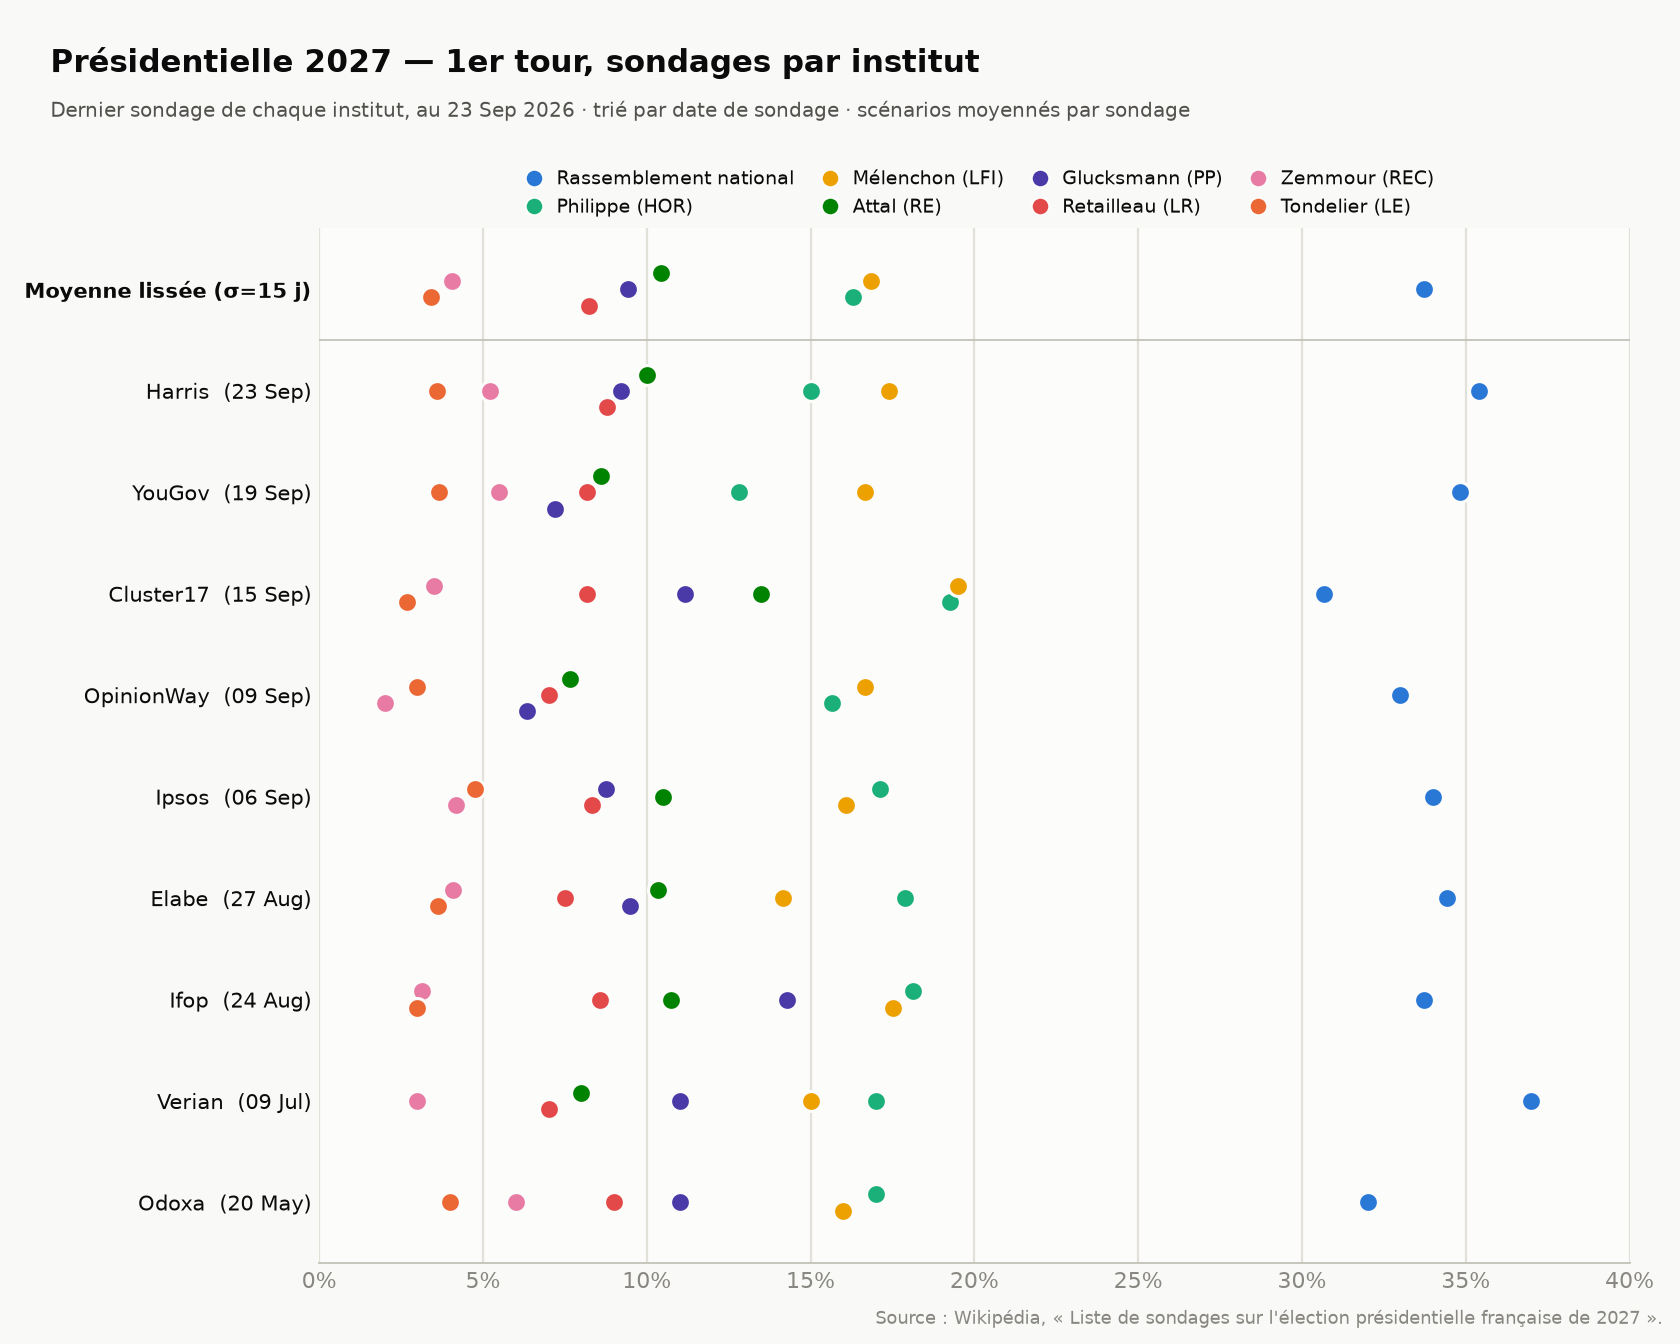
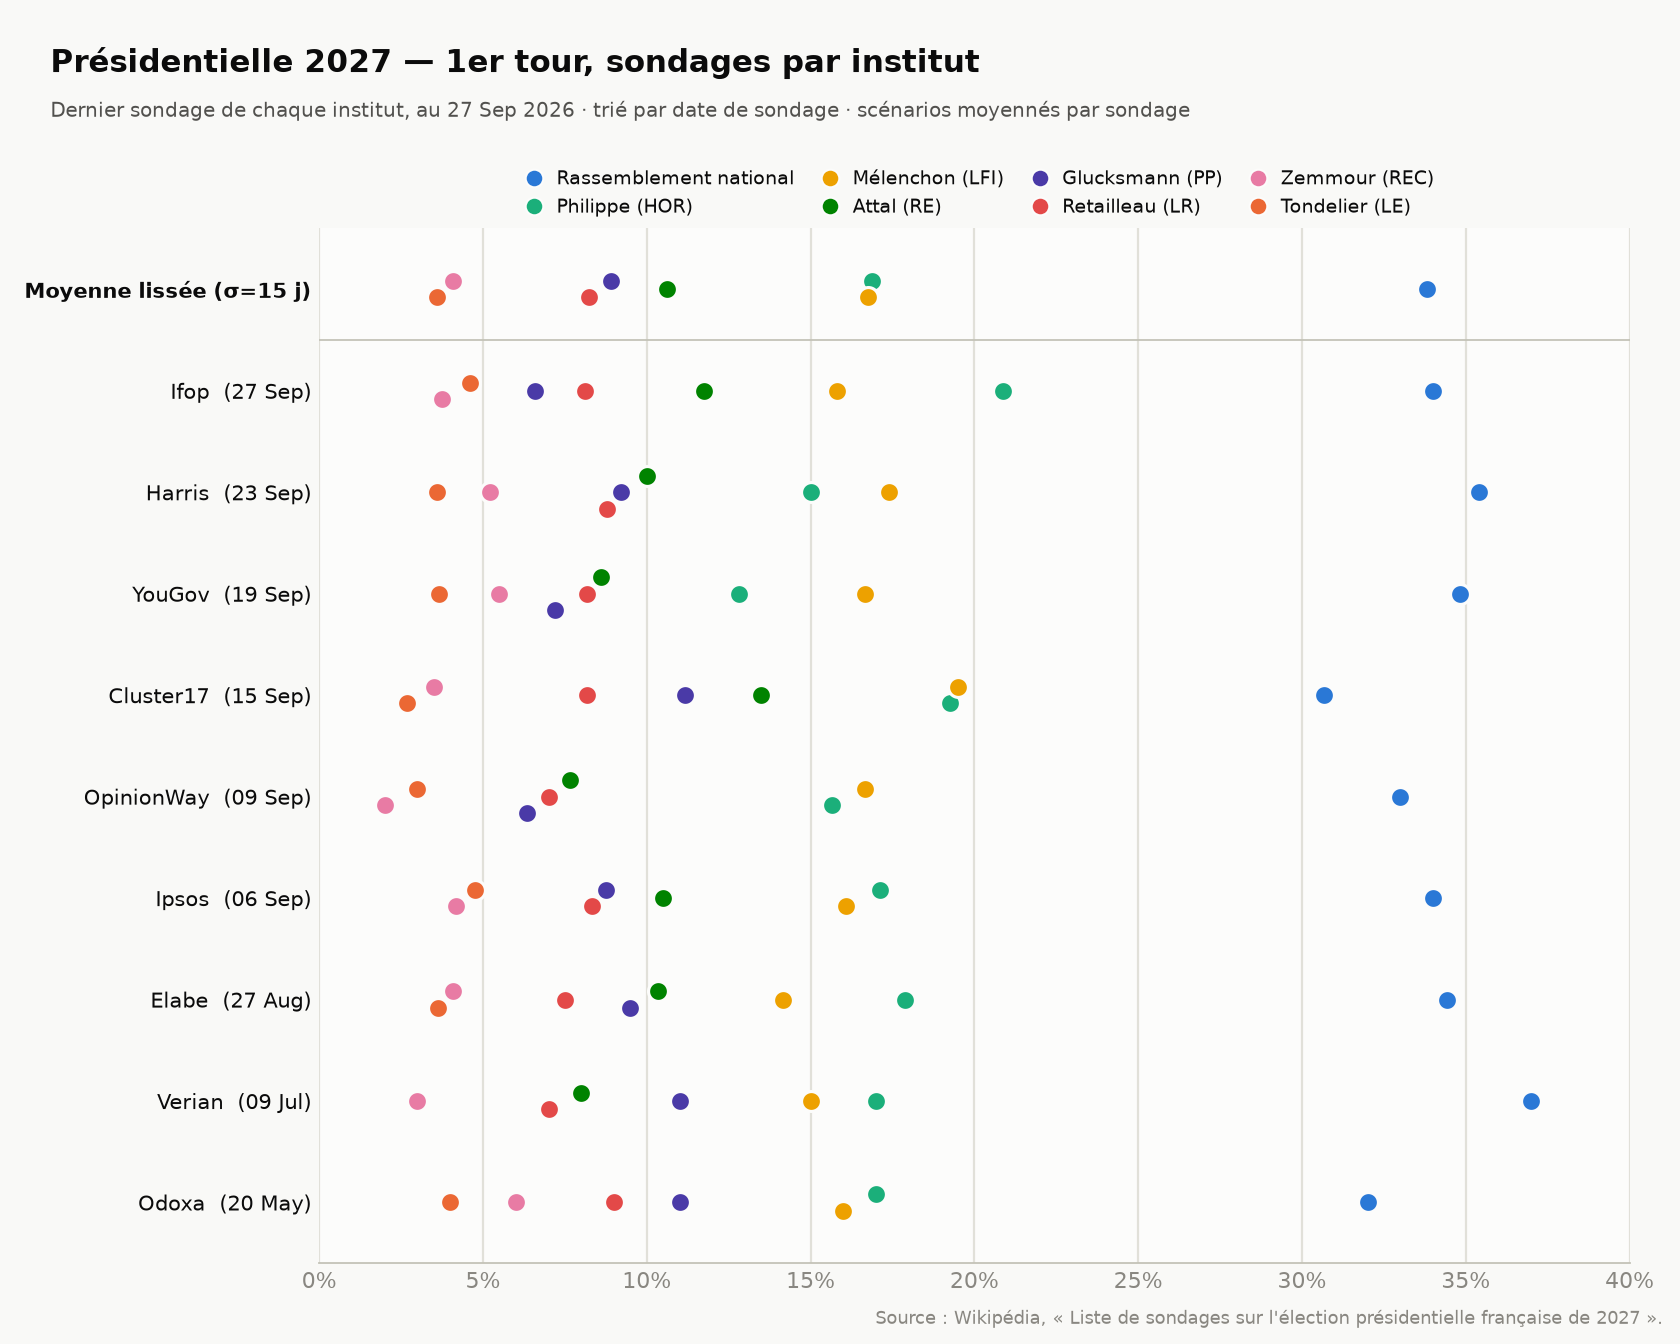
Add Ifop 25-29 September 2026 poll (first round)
Fieldwork ends after the previous top row (Harris 22-24 September), so it
leads the CSV. Second-round data unchanged this run: the only diff there was
YouGov's 17-21 September date losing its manually-added "2026" suffix
(the wikitext cell for that row has never carried a year), not new data, so
the existing second-round CSV was left as is.

diff --git a/README.md b/README.md
@@ -61,7 +61,7 @@ python3 parse_polls.py /tmp/frelec_raw.wiki polls_2027_second_round.csv --second
 First-round voting-intention polls, January–September 2026, scraped from the French
 Wikipedia article
 ["Liste de sondages sur l'élection présidentielle française de 2027"](https://fr.wikipedia.org/wiki/Liste_de_sondages_sur_l%27%C3%A9lection_pr%C3%A9sidentielle_fran%C3%A7aise_de_2027)
-(pulled 2026-09-30).
+(pulled 2026-10-01).
 
 Starting with the 7–8 July 2026 polls (Wikipedia's "Second semestre 2026"
 sub-table), the table switched the RN column from a hypothetical "candidate"
@@ -89,9 +89,9 @@ Lecornu, etc.). A share Wikipedia reports only as an upper bound (e.g. `<1`)
 is encoded as the midpoint of that bound (`0.5`), with the original reading
 kept in `notes`.
 
-Latest poll: Harris (n=1974, 22–24 September) — RN (Le Pen) 35–36%,
-Mélenchon 17–18%, Philippe 13–16%, Glucksmann 7–11%, Attal 5–13%,
-Retailleau 7–10%.
+Latest poll: Ifop (n=1597, 25–29 September) — RN (Le Pen) 31–36%,
+Mélenchon 14–17%, Philippe 15–24%, Attal 7–17%, Glucksmann 1–13%,
+Retailleau 5–11%.
 
 Caveat (per Wikipedia, citing Le Monde): polls taken a year-plus before a French
 presidential election have historically been poor predictors — in 2022 LFI
